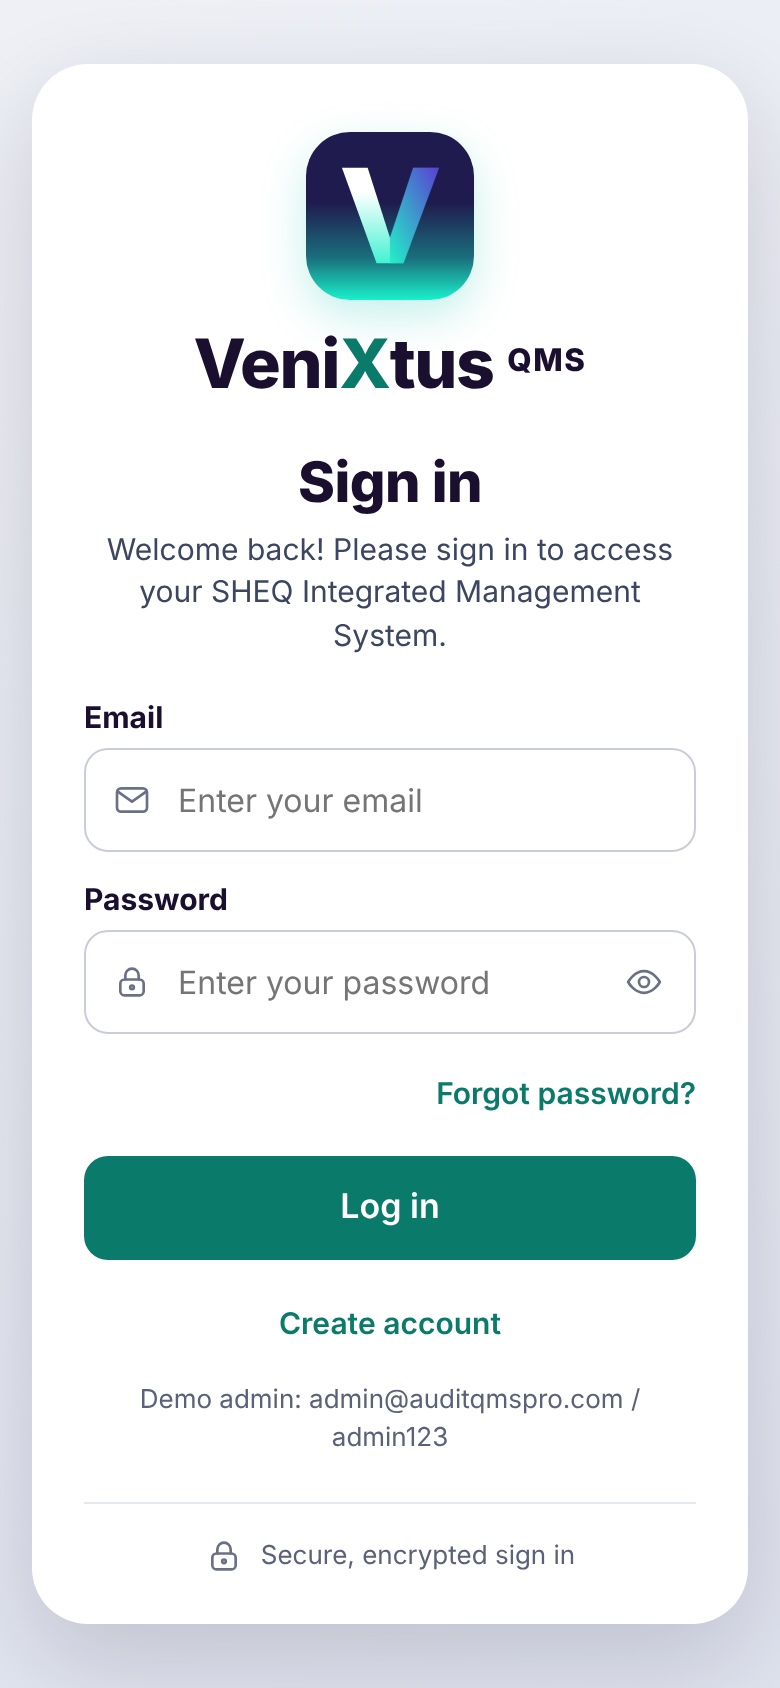
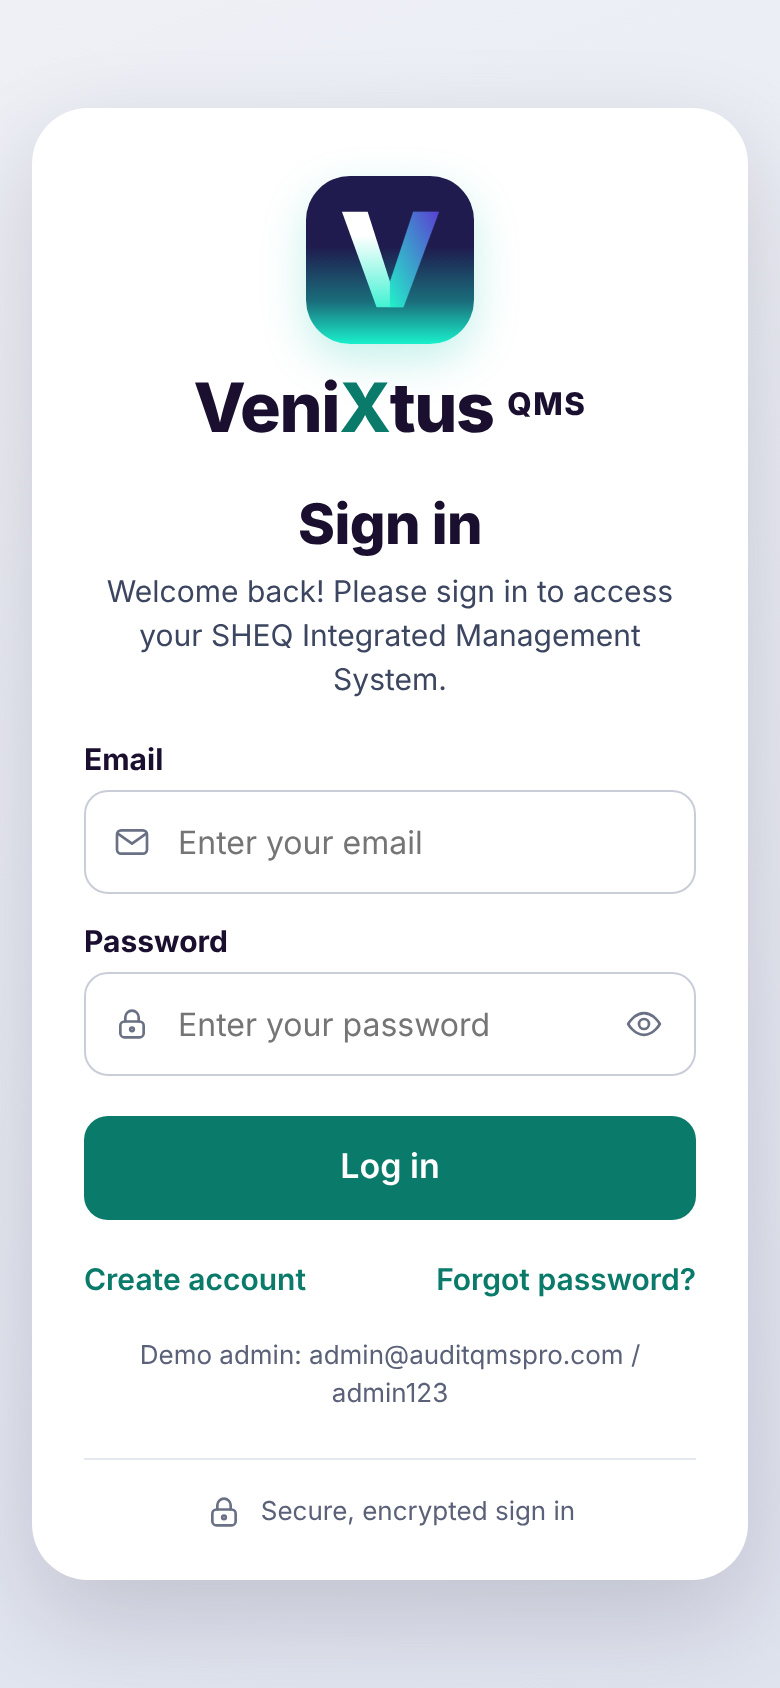
Add files via upload

diff --git a/index.html b/index.html
@@ -379,6 +379,8 @@ window.BRAND = { name: "VeniXtus QMS", legal: "VENIXTUS (Pty) Ltd", mark: "V", h
     .headrow>div:last-child{margin-top:2px;}
   }
   .brand-w .q{font-weight:800;}
+  .hd-logo{display:flex;flex-shrink:0;}
+  .hd-logo .vx-logo,#print-report .vx-logo{margin:0;box-shadow:none;border-radius:10px;}
   .vx-page{min-height:100vh;display:flex;align-items:center;justify-content:center;padding:20px 16px;background:linear-gradient(160deg,#eef0f6,#dfe3ee);}
   .vx-card{width:100%;max-width:440px;background:#fff;border-radius:28px;padding:34px 26px 24px;box-shadow:0 18px 50px rgba(26,15,46,.16);font-family:"Public Sans",system-ui,-apple-system,"Segoe UI",sans-serif;color:#1A0F2E;}
   .vx-top{text-align:center;margin-bottom:18px;}
@@ -398,6 +400,7 @@ window.BRAND = { name: "VeniXtus QMS", legal: "VENIXTUS (Pty) Ltd", mark: "V", h
   .vx-btn{width:100%;height:52px;border:none;border-radius:12px;background:#0A7A6A;color:#fff;font-size:17px;font-weight:600;font-family:inherit;cursor:pointer;margin-top:6px;}
   .vx-btn:hover{background:#086758;} .vx-btn:disabled{opacity:.6;cursor:default;}
   .vx-row{display:flex;justify-content:space-between;align-items:center;margin:2px 0 10px;}
+  .vx-links{margin-top:14px;}
   .vx-center{justify-content:center;margin-top:16px;}
   .vx-link{background:none;border:none;color:#0A7A6A;font-size:15px;font-weight:600;cursor:pointer;padding:6px 0;font-family:inherit;}
   .vx-msg{border-radius:12px;padding:10px 14px;font-size:14px;margin-bottom:14px;}
@@ -9933,9 +9936,8 @@ function renderLoginScreen(){
         ${loginMode==="login" ? `
           ${vxField('Email','login-email','email','Enter your email','mail')}
           ${vxField('Password','login-password','password','Enter your password','lock',true)}
-          <div class="vx-row"><span></span><button class="vx-link" data-action="show-reset" type="button">Forgot password?</button></div>
           <button class="vx-btn" data-action="do-login" ${cloudBusy?'disabled':''}>${cloudBusy?'Signing in…':'Log in'}</button>
-          <div class="vx-row vx-center"><button class="vx-link" data-action="show-register" type="button">Create account</button></div>
+          <div class="vx-row vx-links"><button class="vx-link" data-action="show-register" type="button">Create account</button><button class="vx-link" data-action="show-reset" type="button">Forgot password?</button></div>
           ${!cloudReady() ? `<p class="vx-note">Demo admin: admin@auditqmspro.com / admin123</p>` : ''}
         ` : loginMode==="register" ? `
           ${vxField('Full name','reg-name','text','Your full name','user')}
@@ -10219,7 +10221,7 @@ function render(){
       <header>
         <div class="wrap headrow">
           <div class="brand">
-            <div class="logo">V</div>
+            <span class="hd-logo">${BRAND.logo(44)}</span>
             <div><h1>${BRAND.html}</h1><p>Integrated SHEQ Management Platform</p></div>
           </div>
           <div style="display:flex;align-items:center;gap:10px;flex-wrap:wrap;">
@@ -14800,7 +14802,7 @@ function buildMetricsPrintReport(){
   const c = state.companySettings || {};
   const logoHtml = c.logoDataUrl
     ? `<img src="${c.logoDataUrl}" style="max-height:44px;max-width:120px;" />`
-    : `<div style="width:40px;height:40px;border-radius:9px;background:#1c2b4a;color:#fff;display:flex;align-items:center;justify-content:center;font-weight:700;font-family:sans-serif;">V</div>`;
+    : `${BRAND.logo(40)}`;
   const brandName = c.name ? esc(c.name) : BRAND.name;
 
   document.getElementById('print-report').innerHTML = `
@@ -14830,7 +14832,7 @@ function buildMicroCertificatePrintReport(recordId){
   const c = state.companySettings || {};
   const logoHtml = c.logoDataUrl
     ? `<img src="${c.logoDataUrl}" style="max-height:44px;max-width:120px;" />`
-    : `<div style="width:40px;height:40px;border-radius:9px;background:#1c2b4a;color:#fff;display:flex;align-items:center;justify-content:center;font-weight:700;font-family:sans-serif;">V</div>`;
+    : `${BRAND.logo(40)}`;
   const brandName = c.name ? esc(c.name) : BRAND.name;
   const brandAddress = c.address ? `<div class="meta">${esc(c.address)}${c.email?` &nbsp;·&nbsp; ${esc(c.email)}`:''}</div>` : (c.email ? `<div class="meta">${esc(c.email)}</div>` : '');
 
@@ -14899,7 +14901,7 @@ function buildMgmtReviewPrintReport(){
   const c = state.companySettings || {};
   const logoHtml = c.logoDataUrl
     ? `<img src="${c.logoDataUrl}" style="max-height:44px;max-width:120px;" />`
-    : `<div style="width:40px;height:40px;border-radius:9px;background:#1c2b4a;color:#fff;display:flex;align-items:center;justify-content:center;font-weight:700;font-family:sans-serif;">V</div>`;
+    : `${BRAND.logo(40)}`;
   const brandName = c.name ? esc(c.name) : BRAND.name;
   const row = (label, value) => `<tr><th>${esc(label)}</th><td>${value===null||value===undefined?'—':esc(String(value))}</td></tr>`;
   const mrAppr = ((window.__mr && window.__mr.rows) || []).find(x=>x.status==='approved');
@@ -15112,7 +15114,7 @@ async function buildAuditPrintReport(a){
   const c = state.companySettings || {};
   const logoHtml = c.logoDataUrl
     ? `<img src="${c.logoDataUrl}" style="max-height:44px;max-width:120px;" />`
-    : `<div style="width:40px;height:40px;border-radius:9px;background:#1c2b4a;color:#fff;display:flex;align-items:center;justify-content:center;font-weight:700;font-family:sans-serif;">V</div>`;
+    : `${BRAND.logo(40)}`;
   const brandName = c.name ? esc(c.name) : BRAND.name;
   const brandAddress = c.address ? `<div class="meta">${esc(c.address)}${c.email?` &nbsp;·&nbsp; ${esc(c.email)}`:''}</div>` : (c.email ? `<div class="meta">${esc(c.email)}</div>` : '');
 
